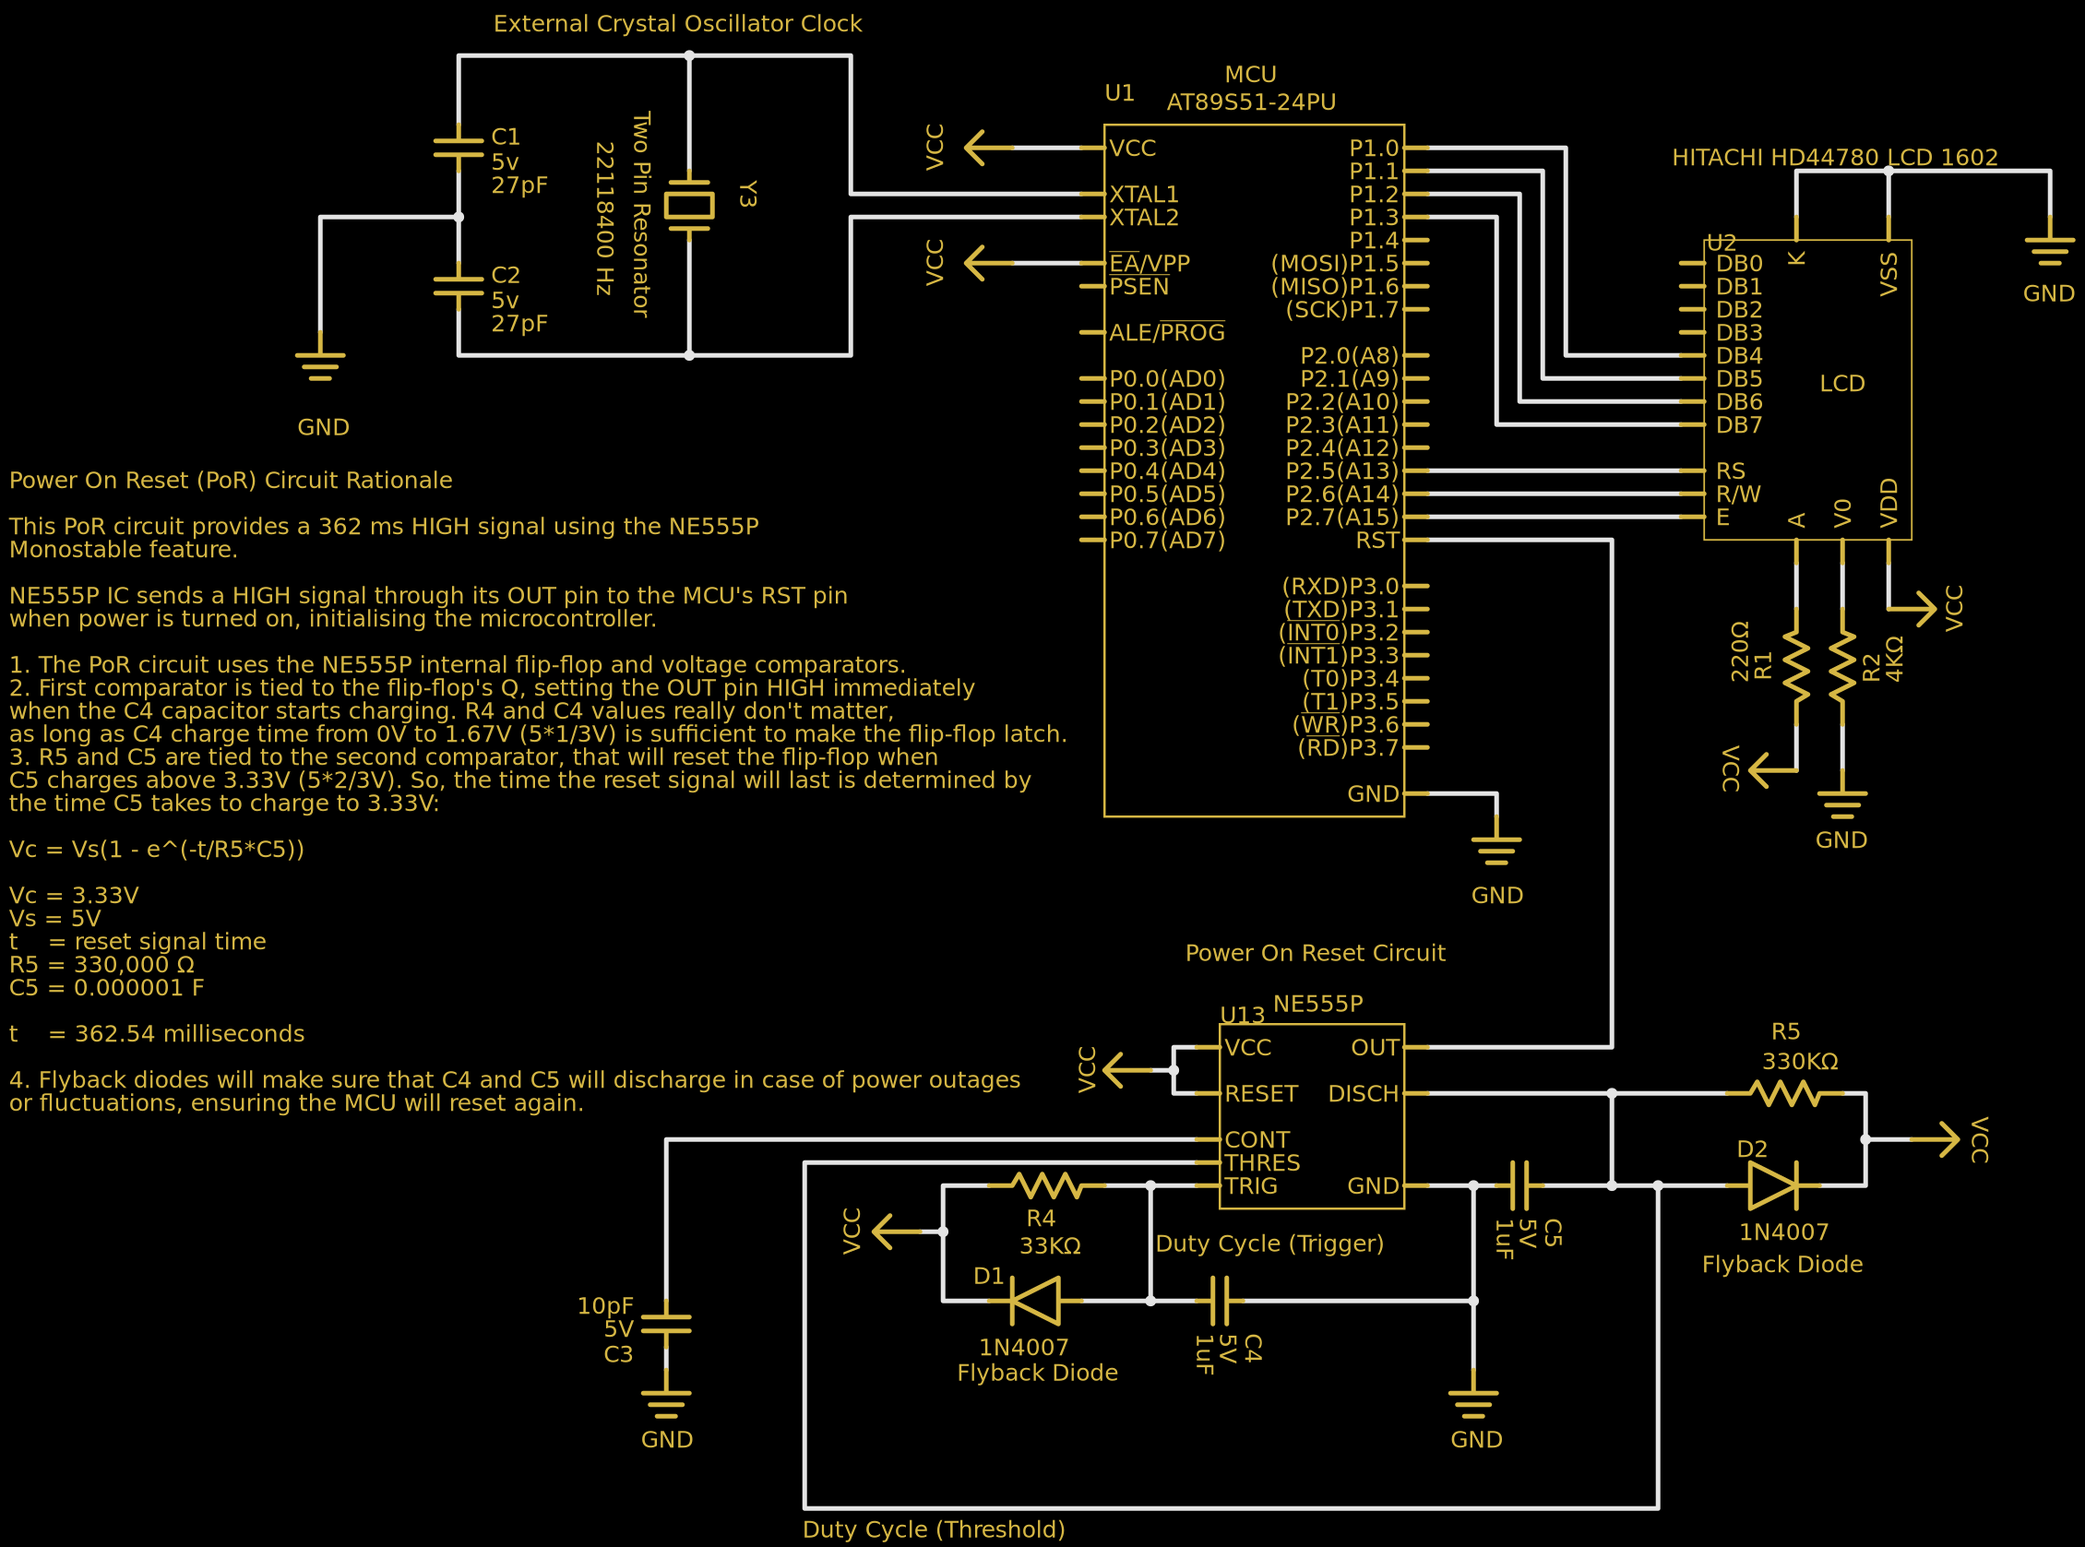
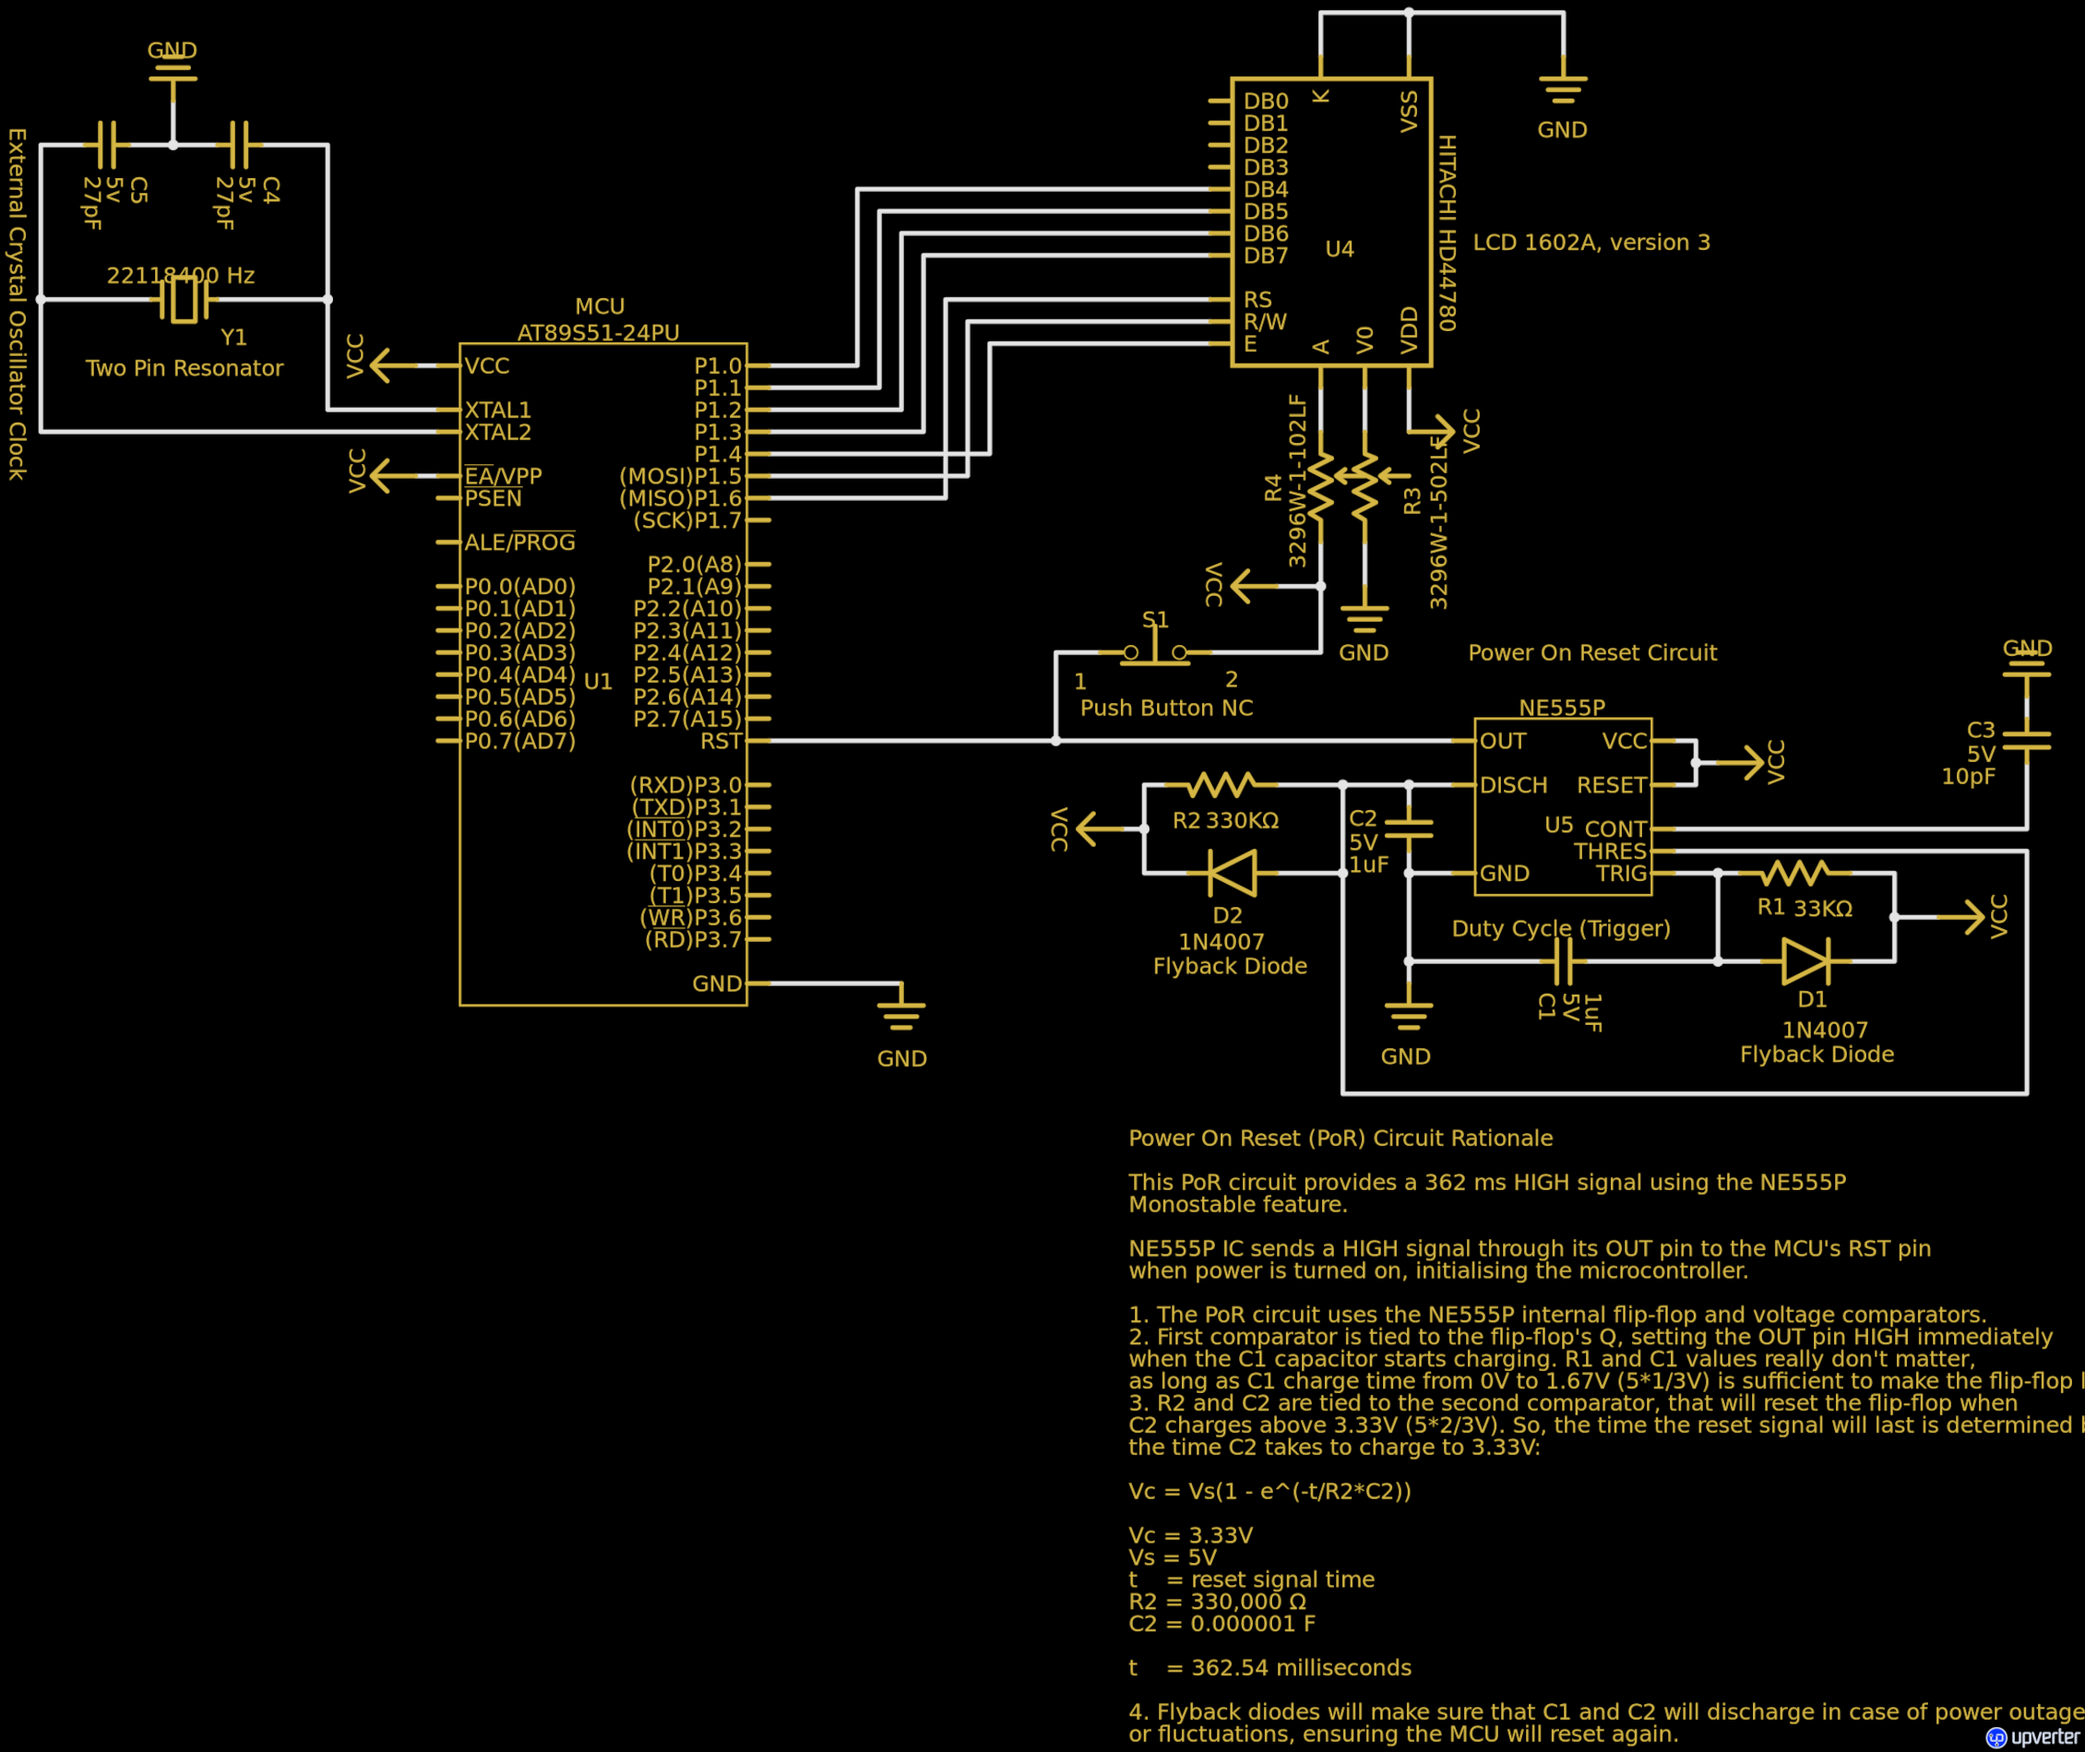
1) Using the P1 to communicate with the LCD, as P0+P2 are designed for data/address communication. 2) Improved, clearer README. Upverter schematics have been updated for a correct and clearer design.

diff --git a/lcd1602_at89s51_4pinbus/hd44780_pinbus.h b/lcd1602_at89s51_4pinbus/hd44780_pinbus.h
@@ -1,4 +1,5 @@
 // HITACHI HD44780 LCD driver for 8051 MCUs (SDCC ONLY)
+// The hardware used for this code is actually a circuit module known as LCD 1602A, version 3.0.
 //
 // Author:                  apachiww@github.com
 //
@@ -8,11 +9,7 @@
 //
 // Experimental auto delay calculation for MCUs using different crystals and operating under 1T, 6T and 12T modes, using MACROs
 //
-// Support for compatible VFD variants also available, e.g. Noritake itron CU20045
-//
 // Soft delay will be used when R/#W is not available to check the busy flag
-//
-// To make use of カタカナ characters, just use the definitions below in your char[]
 //
 // The common LCDs support 6 connection modes (Parallel M68 or i80 interface):
 // 4bit-bus:                Use pins D5~D7 only, plus RS for register selection, R/#W for read/write selection and E for data latch (or #WR for write and #RD for read)
@@ -26,9 +23,6 @@
 // 1. Define your connection mode, available options are LCD_BUS_4BIT, LCD_BUS_8BIT or LCD_BUS_8P
 // 2. Define LCD_NO_READ if you do not use the read function, and soft delay will be used instead of waiting for the busy flag
 // 3. Change the definitions of IOs, XTAL_FREQ and MCU_CYCLE accordingly, this will be used in the calculation of delays later
-// 4. Define DISP_TYPE_NORITAKE_CU20045 and light adjust is available for the VFD
-// 5. Finally include this file in main.c
-// 6. Use the funtions to control your LCD 
 
 // NOTE:
 // 1. If the instruction cycle is shorter than 500nS (i.e. you use a crystal of 33.1176Mhz and operate under 1T mode, it would be 30.195nS), the
@@ -69,9 +63,9 @@
 
 /*----------IO definitions. Change the definitions of IOs below accordingly----------*/
 
-#define IO_RS       P2_5    // The RS pin 
-#define IO_RW_RD    P2_6    // RW pin in m68 mode or RD pin in i80 mode. Notice that usually the RW pin in m68 mode is multiplexed with WR in i80 mode
-#define IO_E_WR     P2_7    // Enable pin in m68 mode or WR pin in i80 mode
+#define IO_RS       P1_6    // The RS pin 
+#define IO_RW_RD    P1_5    // RW pin in m68 mode or RD pin in i80 mode. Notice that usually the RW pin in m68 mode is multiplexed with WR in i80 mode
+#define IO_E_WR     P1_4    // Enable pin in m68 mode or WR pin in i80 mode
 #ifdef  LCD_NO_READ
 #undef  IO_RW_RD
 #endif

diff --git a/lcd1602_led_test/hd44780_pinbus.h b/lcd1602_led_test/hd44780_pinbus.h
@@ -1,0 +1,65 @@
+// This is a helper test to compute/validate the accuracy of the MCU delay functions. Making a LED flicker at 1 second interval.
+#include <mcs51/8051.h>
+
+#include <stdarg.h>
+#include <stdio.h>
+#include <stdint.h>
+
+#define LED P1_5
+
+void lcd_wait_512t(uint8_t t)
+{
+    uint8_t i;
+    while(--t) {
+        i = 255;
+        while(--i);
+    }
+    return;
+}
+
+void main() {
+    while(1)
+    {
+        LED = 0;
+        lcd_wait_512t(255); // 456.963 ms
+        lcd_wait_512t(255); // 456.963 ms
+        lcd_wait_512t(48); //   86.019 ms (86.074 ms to complete 1000 ms)
+        LED = 1;
+        lcd_wait_512t(255); // 456.963 ms
+        lcd_wait_512t(255); // 456.963 ms
+        lcd_wait_512t(48); //   86.019 ms (86.074 ms to complete 1000 ms)
+    };
+}
+
+// Counting the instructions in the _lcd_wait_512t function gives us the following formula, based on a machine cycle of 12 oscillator periods:
+// (12 + t*(12+12+12+24+24) + t*255*(12+12+12+24+24) + 24)/MCU_CYCLE
+
+// ;	hd44780_pinbus.h:10: void lcd_wait_512t(uint8_t t)
+// ;	-----------------------------------------
+// ;	 function lcd_wait_512t
+// ;	-----------------------------------------
+// _lcd_wait_512t:
+// 	mov	r7,dpl      12 oscillator periods
+// ;	hd44780_pinbus.h:13: while(--t) {
+// 00104$:          ( * t)
+// 	mov	a,r7        12 oscillator periods
+// 	dec	a           12 oscillator periods
+// 	mov	r7,a        12 oscillator periods
+// 	jz	00106$      24 oscillator periods
+// ;	hd44780_pinbus.h:14: i = 255;
+// 	mov	r6,#0xff    24 oscillator periods
+// ;	hd44780_pinbus.h:15: while(--i);
+// 00101$:          ( * 255)
+// 	mov	a,r6        12 oscillator periods
+// 	dec	a           12 oscillator periods
+// 	mov	r6,a        12 oscillator periods
+// 	jz	00104$      24 oscillator periods
+// 	sjmp	00101$  24 oscillator periods
+// 00106$:
+// ;	hd44780_pinbus.h:17: return;
+// ;	hd44780_pinbus.h:18: }
+// 	ret             24 oscillator periods
+
+// For a 12 MHz crystal oscillator on a microcontroller with a machine cycle of 12 oscillator periods:
+// Example for t=48.030691964 (48):
+// (12 + 48*(84) + 48*255*(84) + 24)/12 = 1032228/12 = 86019 ns = 86.019 ms

diff --git a/README.md b/README.md
@@ -1,31 +1,34 @@
-# HD44780 library for sdcc (8051 Intel-based Microntrollers)
+# HD44780 library for sdcc targeting 8051 Intel-based Microntrollers
 
-This library provides support for HITACHI HD44780 based character LCDs (0801, 0802, 1601, 1602, 2004) and some compatible VFD variants like Noritake itron CU20045 (Light adjust available), with fast IO operation
+Original code forked from https://github.com/apachiww/hd44780_for_sdcc_51. Quoting: *"(a library) suitable for 8051 based MCUs with various crystals and instruction cycles (1T, 6T, 12T) as AUTOMATIC delay calculation is available."*   
 
-+ Suitable for 8051 based MCUs with various crystals and instruction cycles (1T, 6T, 12T) as AUTOMATIC delay calculation is available
+The original repository aimed to be a common library for many different LCD displays (0801, 0802, 1601, 1602, 2004, Noritake CU20045). This fork focus on specific LCD *circuit modules*, e.g.:  
 
-+ 4bit or 8bit M68 and i80 interface supported
+1. The LCD 1602A, version 3, with 4/8 bit interface.
+2. The LCD 1602A, version 3, with I2C interface.  
 
-+ Easy-to-use formattable print function `disp_printf(format, ...)` similar to normal `printf(format, ...)`
+There is little to no modifications to the original source code. The actual purpose of this fork is to:  
 
-+ Build and deploy automation using make and avrdude with an AVRISP to flash the hex file into the microcontroller.
+1. Provide more testing (particularly the LCD initialization delay functions).  
+2. Validate different hardware interfaces (4 bits, 8 bits and I2C communication).  
+3. Offer better build and deploy automation, using Makefiles and avrdude and flash programmers.  
+4. Offer better structured header and source files, so there is no need to manually copy the source file for the different interfaces.  
+5. Provide PCB schematics to build 8051-based development boards (TBD - in another git repository).  
 
-+ Three types of functions operating at different levels. It's recommended to use the high level functions. Look them up at the end of `hd44780_pinbus.h`
-
-
-This library is designed for SDCC only and microcontrollers based on Intel 8051. Current tests use Atmel AT89S5x microcontroller family.  
+Projects were tested on an Atmel AT89S51, although others are theoretically supported - see [conf/AT89S5x.conf](conf/AT89S5x.conf). A configuration using an external EEPROM was set to test possible performance impact in the LCD initialization delay functions.  
 
 # Build and Deploy
 
-All projects in this repository assume:  
+## [lcd1602_at89s51_4pinbus](lcd1602_at89s51_4pinbus)
 
-> 1. Code can be compiled by sdcc into an hex file.
->
-> 2. Hex file can be flashed to a microcontroller flash memory, if they are supported by avrdude in the [conf/AT89S5x.conf](conf/AT89S5x.conf) file.
+This circuit is an example of LCD 1602A 4 bit interface.  
 
-## Test with LCD1602 and Atmel AT89S51 - connecting 4 pins to the LCD
+### 4 bit Circuit Configuration  
 
-4bit M68 interface with R/#W in [lcd1602_at89s51_4pinbus](lcd1602_at89s51_4pinbus/)  
+![](images/lcd1602_at89s51_4pinbus.jpg)  
+Obs: Although the SN74LS373 and EEPROM chips, together with the data/address multiplexed bus cables (orange, yellow, blue and purple wires) show on the board, notice that the MCU is reading instructions from its internal flash memory (EA pin is connected to VCC).  
+![](images/lcd1602_at89s51_4pinbus_schematic.png)  
+Available at https://upverter.com/design/mpeschke/1d90df03c47b8130/at89s51-hd44780-4bits/  
 
 > Usage:
 >
@@ -37,26 +40,67 @@ All projects in this repository assume:
 >
 > 4. From a terminal, run the commands:
 > 
-> 5. cd lcd1602_at89s51_4pinbus/
+> 5. cd [lcd1602_at89s51_4pinbus](lcd1602_at89s51_4pinbus/)
 >
 > 6. make
 
-The make command will 1) build the source code and 2) flash the HEX file into the microcontroller's flash memory.  
+The make command will:  
 
-Remove the microcontroller from the AVRISP board and place it in its circuit (see circuit's picture and diagram below)  
+> 1. build the source code.  
+>
+> 2. flash the HEX file into the microcontroller's flash memory.  
 
-![](images/lcd1602_at89s51_4pinbus.jpg)  
+![](images/lcd1602_at89s51_avrdude_make.jpg)  
 
-![](images/lcd1602_at89s51_4pinbus_schematic.png)  
+Remove the microcontroller from the AVRISP board and place it in its [circuit](#4-bit-circuit-configuration).  
 
-## Test with LCD2004
+## [lcd1602_at89s51_4pinbus_extrom](lcd1602_at89s51_4pinbus_extrom)
 
-N/A, will post an update when I find one of these for testing. You can see the original test in the [original repository](https://github.com/apachiww/hd44780_for_sdcc_51).  
+This circuit is an example of LCD 1602A 4 bit interface, but code is accessed from an external EEPROM.  
 
-## Test with Noritake CU20045-UW VFD
+### External EEPROM 4 bit Circuit Configuration
 
-N/A, will post an update when I find one of these for testing. You can see the original test in the [original repository](https://github.com/apachiww/hd44780_for_sdcc_51).  
+![](images/lcd1602_at89s51_4pinbus_extrom.jpg)  
+![](images/lcd1602_at89s51_4pinbus_extrom_schematic.png)  
+Available at https://upverter.com/design/mpeschke/917442ed3dc5514a/at89s51-hd44780-4bits-ext-eeprom/    
 
-## Test with PT6314 based VFM202MDAR2 VFD 
+> Usage:
+>
+> 1. Get your hands on a Flash Programmer. The Batronix Barlino II was used for this project.  
+>
+> 2. From a terminal, run the commands:
+> 
+> 3. cd [lcd1602_at89s51_4pinbus_extrom](lcd1602_at89s51_4pinbus_extrom/)
+>
+> 4. make build_hex
+>
+> 5. Follow your Flash Programmer instructions to flash the [lcd1602_at89s51_4pinbus_extrom/main_lcd1602.hex](lcd1602_at89s51_4pinbus_extrom/main_lcd1602.hex) into the EEPROM chip.  
 
-N/A, will post an update when I find one of these for testing. You can see the original test in the [original repository](https://github.com/apachiww/hd44780_for_sdcc_51).  
+![](images/lcd1602_at89s51_4pinbus_extrom_burnrom.png)  
+
+![](images/lcd1602_at89s51_4pinbus_extrom_burnrom_batronix.jpg)  
+
+Remove the EEPROM from the Flash Programmer and place it in its [circuit](#external-eeprom-4-bit-circuit-configuration).  
+
+## [lcd1602_led_test](lcd1602_led_test)
+
+This circuit visually validates the LCD initialization delay functions. A blinking LED on microcontroller's port P1_5 in a 1 (one) second interval, using a 12 MHz crystal oscillator.  
+
+### Circuit configuration
+
+![](images/lcd1602_led_test_schematic.png)  
+Available at https://upverter.com/design/mpeschke/6ed6139609f5693d/at89s51-hd44780-led-test-ext-eeprom/
+
+> Usage:
+>
+> 1. Get your hands on a Flash Programmer. The Batronix Barlino II was used for this project.  
+>
+> 2. From a terminal, run the commands:
+>
+> 2. cd [lcd1602_led_test](lcd1602_led_test/)
+>
+> 4. make build_hex
+>
+> 5. Follow your Flash Programmer instructions to flash the [lcd1602_led_test/main_lcd1602.hex](lcd1602_led_test/main_lcd1602.hex) into the EEPROM chip.  
+
+Remove the EEPROM from the Flash Programmer and place it in its circuit.  
